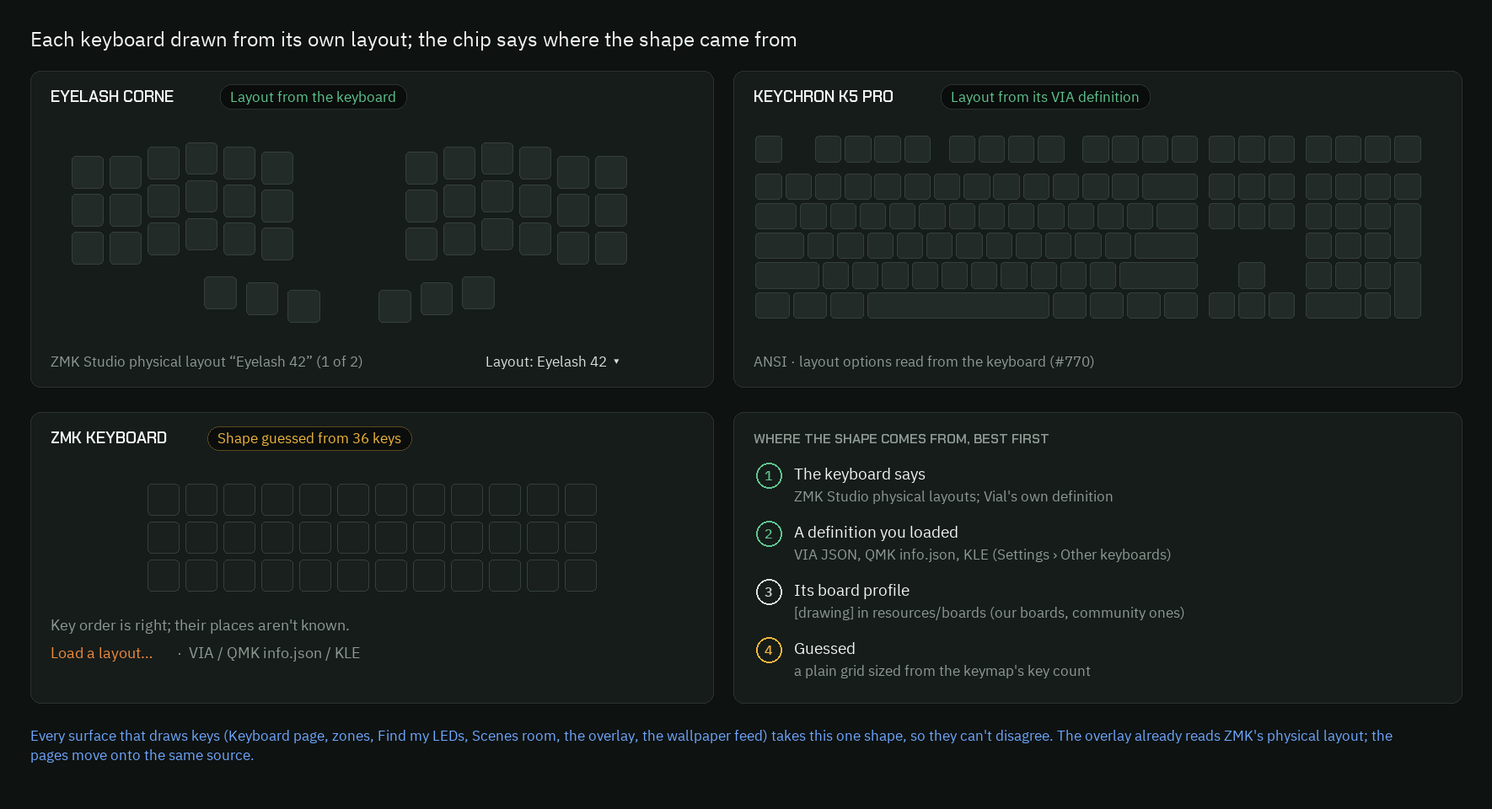
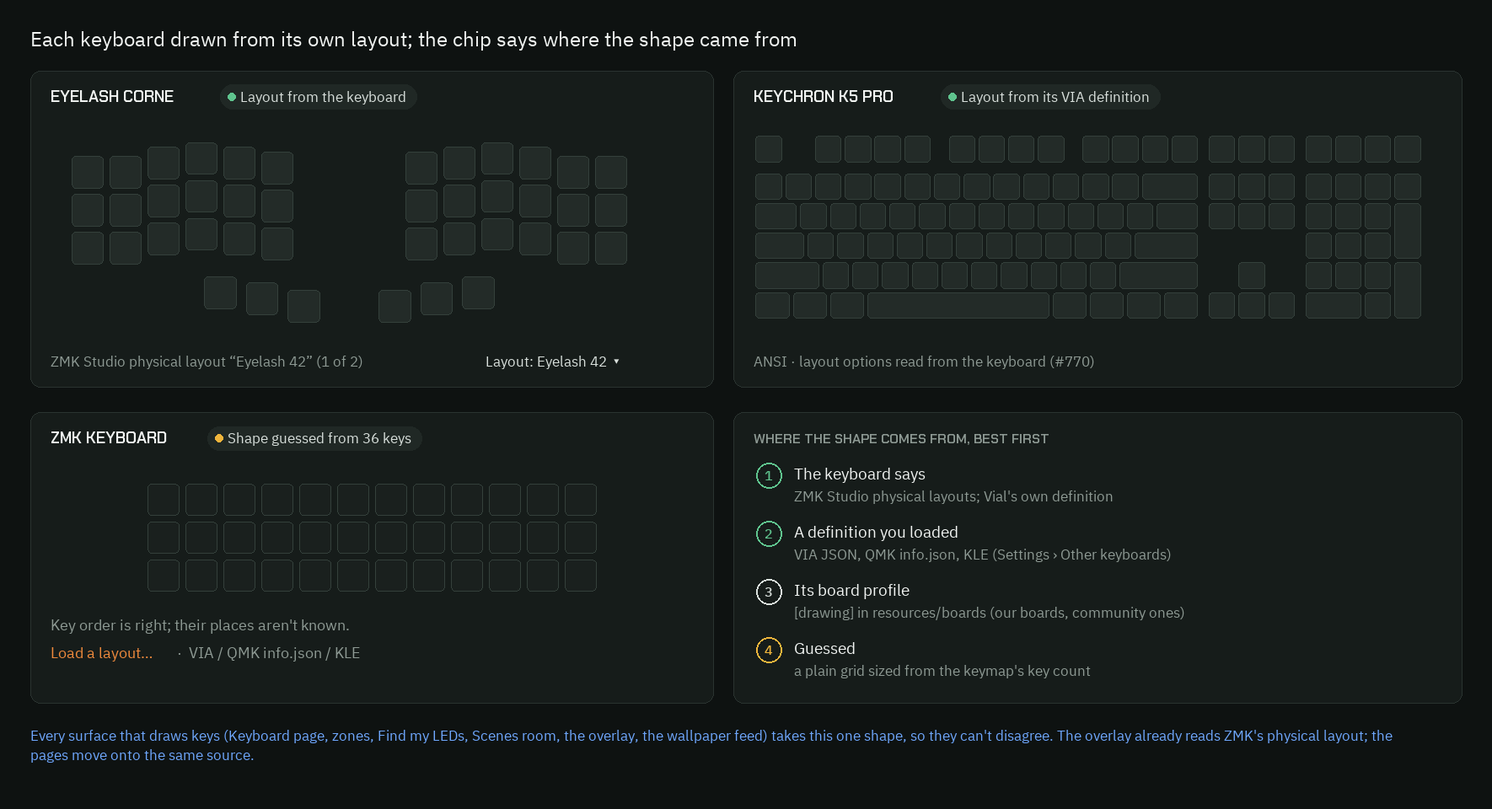
Design ux-1105: flat status chips, EFFECT above its pills, record the Hub's decisions
Status chips lose their outline (muted fill, leading dot); outlines are only for clickable
things, written as an app-wide rule. EFFECT sits above the effect pills like COLOUR. ⓘ only on
controls and amber bars, no first-run highlight. Decisions recorded; mockups re-rendered.

Changed region(s): [[0.6215, 0.0938, 0.7768, 0.1562], [0.1243, 0.0938, 0.2797, 0.1562], [0.1243, 0.5, 0.2797, 0.5625]]

diff --git a/docs/design/mockups/ux_1105_mockups.py b/docs/design/mockups/ux_1105_mockups.py
@@ -167,10 +167,19 @@ def button(c, x, y, label, primary=False, size=12.5):
     return w
 
 
-def chip(c, x, y, label, color=TEXT, fill=WELL, outline=LINE, size=11.5):
-    w = c.tw(label, size) + 16
-    c.rect(x, y, w, 19, fill=fill, outline=outline, r=9)
-    c.text(x + 8, y + 2, label, size, color)
+CHIP_FILL = (0x20, 0x28, 0x25)  # muted, flat: a status chip is never outlined
+WARN_FILL = (0x2A, 0x22, 0x10)
+
+
+def chip(c, x, y, label, color=TEXT, fill=None, dot=None, size=11.5):
+    """A read-only status chip: flat muted fill, no outline, optional leading dot."""
+    fill = fill or (WARN_FILL if color == WARN else CHIP_FILL)
+    pad = 16 if dot else 8
+    w = c.tw(label, size) + pad + 8
+    c.rect(x, y, w, 19, fill=fill, r=9.5)
+    if dot:
+        c.circle(x + 9.5, y + 9.5, 3, fill=dot)
+    c.text(x + pad, y + 2, label, size, color)
     return w
 
 
@@ -268,11 +277,11 @@ def shell(c, W, H, page, menu_open=False):
     c.text(sx + 60, 88, "2 keyboards \u00b7 switch", 11, MUTED)
     c.text(sx + 204, 77, "\u25be", 13, TEXT)
     hx = sx + 234
-    c.rect(hx, 72, 262, 30, fill=SURFACE, outline=LINE, r=6)
+    c.rect(hx, 72, 262, 30, fill=CHIP_FILL, r=6)
     c.circle(hx + 12, 87, 4, fill=OK)
     c.text(hx + 22, 78, "Left  on USB \u00b7 0.3.0 \u00b7 battery 95%", 12.5, TEXT)
     hx += 270
-    c.rect(hx, 72, 200, 30, fill=SURFACE, outline=LINE, r=6)
+    c.rect(hx, 72, 200, 30, fill=CHIP_FILL, r=6)
     c.circle(hx + 12, 87, 4, fill=OK)
     c.text(hx + 22, 78, "Right  linked \u00b7 battery 61%", 12.5, TEXT)
     c.rect(W - 32 - 140, 70, 140, 26, fill=CONTROL, outline=CONTROL_LINE, r=5)
@@ -442,7 +451,7 @@ def focus(out):
     x0, y0, cw = shell(c, W, H, "Keyboard", menu_open=True)
     # the Keyboard page under it, named for the focus
     card(c, x0, y0, cw, 250, "Eyelash Corne")
-    chip(c, x0 + 140, y0 + 12, "Layout from the keyboard", OK)
+    chip(c, x0 + 140, y0 + 12, "Layout from the keyboard", TEXT, dot=OK)
     unit = 28
     draw_keys(c, x0 + 30, y0 + 52, unit, corne_half())
     draw_keys(c, x0 + 30 + 7.8 * unit, y0 + 52, unit, corne_half(right=True))
@@ -525,7 +534,7 @@ def layouts(out):
     y = 56
     c.rect(x0, y, 540, 250, fill=SURFACE, outline=LINE, r=8)
     c.text(x0 + 16, y + 12, "EYELASH CORNE", 13, STRONG, "hud")
-    chip(c, x0 + 150, y + 11, "Layout from the keyboard", OK)
+    chip(c, x0 + 150, y + 11, "Layout from the keyboard", TEXT, dot=OK)
     unit = 30
     draw_keys(c, x0 + 30, y + 54, unit, corne_half())
     draw_keys(c, x0 + 30 + 7.8 * unit, y + 54, unit, corne_half(right=True))
@@ -535,7 +544,7 @@ def layouts(out):
     # K5 Pro from its VIA definition
     c.rect(x0 + 556, y, 576, 250, fill=SURFACE, outline=LINE, r=8)
     c.text(x0 + 572, y + 12, "KEYCHRON K5 PRO", 13, STRONG, "hud")
-    chip(c, x0 + 720, y + 11, "Layout from its VIA definition", OK)
+    chip(c, x0 + 720, y + 11, "Layout from its VIA definition", TEXT, dot=OK)
     unit = 23.5
     draw_keys(c, x0 + 572, y + 50, unit, full_size(), gap=0.07)
     c.text(x0 + 572, y + 222, "ANSI · layout options read from the keyboard (#770)", 11.5, MUTED)
@@ -544,7 +553,7 @@ def layouts(out):
     y2 = y + 270
     c.rect(x0, y2, 540, 230, fill=SURFACE, outline=LINE, r=8)
     c.text(x0 + 16, y2 + 12, "ZMK KEYBOARD", 13, STRONG, "hud")
-    chip(c, x0 + 140, y2 + 11, "Shape guessed from 36 keys", WARN, outline=(0x5A, 0x48, 0x20))
+    chip(c, x0 + 140, y2 + 11, "Shape guessed from 36 keys", TEXT, dot=WARN)
     unit = 30
     keys = [((i % 12) * 1.0, (i // 12) * 1.0, 1, 1) for i in range(36)]
     draw_keys(c, x0 + 90, y2 + 54, unit, keys, tint=(0x1A, 0x20, 0x1E))
@@ -670,43 +679,43 @@ def thumbs(out):
 # --- 4: Lights page declutter -----------------------------------------------------------------
 
 def lights(out):
-    W, H = 1240, 1020
+    W, H = 1240, 1040
     c = Canvas(W, H)
     x0, y0, cw = shell(c, W, H, "Lights")
     # Keyboard card
     y = y0
-    card(c, x0, y, cw, 360, "Eyelash Corne")
+    card(c, x0, y, cw, 378, "Eyelash Corne")
     # status highlights row
     yy = y + 44
     xx = x0 + 16
-    xx += chip(c, xx, yy, "Lights now: Foxglove", TEXT) + 6
-    xx += info(c, xx, yy + 1) + 8
+    xx += chip(c, xx, yy, "Lights now: Foxglove", TEXT, dot=OK) + 6
+    xx += 4
     xx += chip(c, xx, yy, "6 zones per half", TEXT) + 6
     c.text(xx + 2, yy + 2, "Show zones", 12, ACCENT)
     xx += c.tw("Show zones", 12) + 16
-    xx += chip(c, xx, yy, "calibrated", OK) + 6
-    xx += chip(c, xx, yy, "◑ dims on battery", TEXT) + 6
+    xx += chip(c, xx, yy, "calibrated", TEXT, dot=OK) + 6
+    xx += chip(c, xx, yy, "Right on battery · dims to 80%", TEXT, dot=MUTED) + 6
     # left column: controls
     lx, ly = x0 + 16, yy + 36
     pw = pill(c, lx, ly, "Off")
     pill(c, lx + pw + 6, ly, "On", True)
-    caps(c, lx + 520, ly + 6, "Effect")
+    caps(c, lx, ly + 34, "Effect")
     ex = lx
     for i, e in enumerate(["Solid", "Breathe", "Spectrum", "Swirl"]):
-        ex += pill(c, ex, ly + 32, e, i == 0) + 6
-    caps(c, lx, ly + 70, "Colour")
+        ex += pill(c, ex, ly + 50, e, i == 0) + 6
+    caps(c, lx, ly + 88, "Colour")
     sx = lx
     for i, rgb in enumerate(SWATCHES):
-        sx += swatch(c, sx, ly + 88, rgb, i == 0)
-    pill(c, sx, ly + 90, "Custom")
-    c.text(lx, ly + 126, "Brightness", 12.5)
-    c.text(lx + 530, ly + 126, "80%", 12.5, TEXT, "mono", anchor="ra")
-    slider(c, lx, ly + 142, 530, 0.8)
-    c.text(lx, ly + 170, "Speed", 12.5)
-    c.text(lx + 530, ly + 170, "3", 12.5, TEXT, "mono", anchor="ra")
-    slider(c, lx, ly + 186, 530, 0.5)
-    bw = button(c, lx, ly + 220, "Apply colour", primary=True)
-    c.rect(lx + bw + 8, ly + 225, 28, 14, fill=ACCENT, r=3)
+        sx += swatch(c, sx, ly + 106, rgb, i == 0)
+    pill(c, sx, ly + 108, "Custom")
+    c.text(lx, ly + 144, "Brightness", 12.5)
+    c.text(lx + 530, ly + 144, "80%", 12.5, TEXT, "mono", anchor="ra")
+    slider(c, lx, ly + 160, 530, 0.8)
+    c.text(lx, ly + 188, "Speed", 12.5)
+    c.text(lx + 530, ly + 188, "3", 12.5, TEXT, "mono", anchor="ra")
+    slider(c, lx, ly + 204, 530, 0.5)
+    bw = button(c, lx, ly + 238, "Apply colour", primary=True)
+    c.rect(lx + bw + 8, ly + 243, 28, 14, fill=ACCENT, r=3)
     # right column: halves + switches
     rx = x0 + 600
     caps(c, rx, ly, "Both halves now")
@@ -732,11 +741,10 @@ def lights(out):
             " A running scene keeps the lights until it ends.", 11.5)
 
     # Other devices, decluttered
-    y = y0 + 380
+    y = y0 + 398
     card(c, x0, y, cw, 420, "Other devices")
-    info(c, x0 + 16 + c.tw("Other devices", 14.5, "hud") + 8, y + 13)
     yy = y + 44
-    c.rect(x0 + 16, yy, cw - 32, 28, fill=(0x2A, 0x22, 0x10), outline=(0x5A, 0x48, 0x20), r=5)
+    c.rect(x0 + 16, yy, cw - 32, 28, fill=WARN_FILL, r=5)
     c.text(x0 + 28, yy + 6, "⚠  OMEN Light Studio may override the case", 12.5, WARN)
     info(c, x0 + 28 + c.tw("⚠  OMEN Light Studio may override the case", 12.5) + 8, yy + 6, WARN)
     yy += 40
@@ -745,8 +753,7 @@ def lights(out):
     thumb_frame(c, x0 + 16, yy + 10, lambda a, b, w, h: mini_case(c, a, b, w, h, [ACCENT, ACCENT, (0xFF, 0x5F, 0x3C)], strip=ACCENT))
     c.text(x0 + 84, yy + 10, "OMEN 45L case", 13, STRONG)
     c.text(x0 + 90 + c.tw("OMEN 45L case", 13), yy + 10, "Built-in support · calibrated", 12, MUTED)
-    c.text(x0 + 84, yy + 30, "5 zones", 12, TEXT)
-    info(c, x0 + 84 + c.tw("5 zones", 12) + 6, yy + 30)
+    chip(c, x0 + 84, yy + 29, "5 zones", TEXT)
     bx = x0 + cw - 16
     for lbl in ["⋯", "Identify", "Off", "Calibrate…"]:
         bx -= c.tw(lbl, 12.5) + 20 + 6
@@ -778,8 +785,7 @@ def lights(out):
         c.text(x0 + 76, yy + 10, name, 13, STRONG)
         c.text(x0 + 82 + c.tw(name, 13), yy + 10, ctl, 12, MUTED)
         if name.startswith("G502"):
-            chip(c, x0 + 76, yy + 28, "in front only", WARN, outline=(0x5A, 0x48, 0x20))
-            info(c, x0 + 76 + c.tw("in front only", 11.5) + 22, yy + 28, WARN)
+            chip(c, x0 + 76, yy + 28, "in front only", TEXT, dot=MUTED)
         c.text(x0 + cw - 30, yy + 12, "▸", 13, MUTED)
         yy += 48
     c.line(x0 + 1, yy, x0 + cw - 1, yy, LINE)
@@ -817,7 +823,7 @@ def lights_states(out):
     y += 24
     for now, short, btn in rows:
         hh = c.wrap(x0, y, now, 540, 12, WARN) - y
-        c.rect(x0 + 580, y - 4, 552, 28, fill=(0x2A, 0x22, 0x10), outline=(0x5A, 0x48, 0x20), r=5)
+        c.rect(x0 + 580, y - 4, 552, 28, fill=WARN_FILL, r=5)
         c.text(x0 + 592, y + 2, "⚠  " + short, 12.5, WARN)
         ix = x0 + 592 + c.tw("⚠  " + short, 12.5) + 8
         info(c, ix, y + 2, WARN)

diff --git a/docs/design/device-focus-layouts-thumbnails-lights-declutter.md b/docs/design/device-focus-layouts-thumbnails-lights-declutter.md
@@ -1,7 +1,23 @@
 # Device focus, real key layouts, device thumbnails, and a quieter Lights page
 
-Design only (ux-1105, 2026-11-05). Taste-sensitive, waiting on the Hub. Nothing here is built.
-The issues at the end are drafts. They get filed once the Hub approves.
+Design only (ux-1105, 2026-11-05). **Approved by the user on 2026-11-05** ("i like that a lot"),
+with two fixes now folded in: status chips are flat, and the EFFECT label sits above its pills.
+Nothing here is built yet. The issues are filed; the plan below links them.
+
+## Decisions (2026-11-05, all option a)
+
+1. **Focus:** one global switcher in the status strip. The overlay and the wallpaper feed can
+   pin their own keyboard.
+2. **Other devices rows:** collapsed by default.
+3. **Hidden detail:** an ⓘ on controls (and on amber info bars); chips, labels and card titles
+   carry their text on hover, with no ⓘ.
+4. **"Follow the keyboard I type on":** later (C4), off by default.
+5. A read-only VIA or LampArray-only keyboard that has the focus shows its lights in the
+   keyboard card, with muted read-only chips, and isn't listed again under Other devices.
+6. **No first-run highlight on the ⓘ icons.** The user declined it.
+7. **Flat status chips** (user fix): see section 4, rule 2. This holds app-wide, not only on Lights.
+8. **EFFECT label above the effect pills** (user fix), like COLOUR above the swatches: every
+   control group's caps label sits on its own line above the group, never beside another row.
 
 The user's request: "device 'focus' selection should be a thing for any integrated
 representations of the keyboard. as well as key layout detection. and when it comes to the
@@ -189,13 +205,13 @@ can no longer disagree.
 **The source, best first:**
 1. **The keyboard says**: ZMK Studio's physical layouts (the active one, and the others as
    choices), or Vial's own definition with its layout options. Chip: "Layout from the keyboard"
-   (ok colour).
+   (green dot).
 2. **A definition you loaded**: VIA JSON (already loadable in Settings › Other keyboards), and
-   later QMK `info.json` or a raw KLE file. Chip: "Layout from its VIA definition" (ok colour).
+   later QMK `info.json` or a raw KLE file. Chip: "Layout from its VIA definition" (green dot).
 3. **Its board profile**: `[drawing]` in `resources/boards` or the user's boards folder. Chip:
-   "Layout from Foxglove's board profile" (plain).
+   "Layout from Foxglove's board profile" (no dot).
 4. **Guessed**: today's `Drawing::plain(keymap key count)`. Chip: "Shape guessed from N keys"
-   (amber outline, not amber fill: it isn't a fault). Muted line: "Key order is right; their
+   (amber dot; flat like every status chip, and not an amber bar: it isn't a fault). Muted line: "Key order is right; their
    places aren't known." Link: "Load a layout…".
 
 **Rules:**
@@ -254,16 +270,25 @@ No per-product art ships, and a board without a layout gets the plain Keyboard s
    collapsed expander.
 2. **State becomes a chip, explanation becomes a tooltip.** A chip is 1 to 4 words, the state
    only: "6 zones per half", "calibrated", "in front only". The sentence that explains it is the
-   chip's or the ⓘ's hover text, word for word. Nothing is reworded away.
-3. **ⓘ only where the label is a control** (a checkbox, a button). Hovering the label itself
-   already shows the same text, so the ⓘ is a hint that there is more, not a second place for it.
-   Plain-text chips carry their hover text directly.
-4. **Amber is never collapsed.** It becomes one InfoBar line of 60 characters or less that names
+   chip's hover text, word for word. Nothing is reworded away.
+   **Status chips are flat** (app-wide rule): a read-only chip has **no outline**, a muted fill
+   (`CHIP_FILL`, between `surface` and `control`) and, when its state has a colour, a **leading
+   dot** in it (ok green, muted grey, warn amber). The text stays `text`, not coloured.
+   **Outlines are only for clickable things:** pills, buttons, dropdowns, text fields. The same
+   goes for the status strip's part chips and for amber info bars (fill only). A link is accent
+   text, never a chip.
+3. **ⓘ only on controls** (a checkbox, a button) **and on amber info bars.** Hovering the
+   control's label shows the same text, so the ⓘ is a hint that there is more, not a second place
+   for it. Chips, plain labels and card titles carry their hover text directly, with no ⓘ. There
+   is no first-run highlight on the ⓘ.
+4. **Caps labels sit above their group,** never to the side: OFF/ON, then EFFECT over the effect
+   pills, then COLOUR over the swatches.
+5. **Amber is never collapsed.** It becomes one InfoBar line of 60 characters or less that names
    the problem, plus its action button. The full sentence, Settings path included, goes in the
    InfoBar's ⓘ, and the health view keeps the long copy.
-5. **Expanders are collapsed by default, and remembered for the session** (as Show zones is now):
+6. **Expanders are collapsed by default, and remembered for the session** (as Show zones is now):
    each device row, "More sources" (OpenRGB, Add a device), "Adjust levels…".
-6. **The casual viewer sees state and controls:** who drives the lights, the effect, the colour,
+7. **The casual viewer sees state and controls:** who drives the lights, the effect, the colour,
    brightness, and each device's thumbnail and name. Everything else is one hover or one click
    away.
 
@@ -281,7 +306,7 @@ Sources: `lights_page.rs`, `lights_owner.rs`, `light_zones.rs`, `zones_ui.rs`,
 
 | # | Text now | Goes to |
 |---|---|---|
-| K1 | "Lights now: {who}" (+ TIP on hover: "Who drives the keyboard's lights… lets go.") | Chip "Lights now: Foxglove" + ⓘ with TIP |
+| K1 | "Lights now: {who}" (+ TIP on hover: "Who drives the keyboard's lights… lets go.") | Chip "Lights now: Foxglove" (green dot); hover = TIP |
 | K2 | "Windows Dynamic Lighting holds the keyboard's lights. Turn off Settings > Personalization > Dynamic Lighting > {device} > "Use Dynamic Lighting on my devices" to give them back. [The scene "{name}" comes back then.]" | Amber InfoBar "Windows has the keyboard's lights · {scene} waits" + button "Open Dynamic Lighting settings" (unchanged) + ⓘ with the full sentence *(moved)* |
 | K3 | "Windows Dynamic Lighting holds the keyboard's lights; Foxglove draws through it [while its window is in front]. Turn off … to give them back." | Amber InfoBar "Windows has the lights · Foxglove draws through it [in front]" + button + ⓘ full *(moved)* |
 | K4 | Zone summary "6 lighting zones per half, by column" (+ details on hover) | Chip "6 zones per half"; hover = the summary + details *(moved)*; "Show zones" link stays beside it |
@@ -289,7 +314,7 @@ Sources: `lights_page.rs`, `lights_owner.rs`, `light_zones.rs`, `zones_ui.rs`,
 | K6 | "The keyboard reports {n} lamps; which keys each one lights isn't known yet." (hover) | Tooltip of the K5 chip |
 | K7 | Zone drawing: source line ("From your check" / "From the board's profile · not checked on yours yet" / "Reported by the device" …) | Expander (Show zones), as now; the source becomes a chip in the drawing's header |
 | K8 | Zone drawing: "{n} more lamps … light nothing; Foxglove leaves them out." | Expander, visible muted line under the drawing (it is state) |
-| K9 | Zone drawing: ZONE_LOOKS "Per-key looks (scenes, ripples) take one colour per zone here: the colour at the zone's centre." | Expander, ⓘ beside the drawing's title *(moved)* |
+| K9 | Zone drawing: ZONE_LOOKS "Per-key looks (scenes, ripples) take one colour per zone here: the colour at the zone's centre." | Expander, hover on the drawing's title *(moved)* |
 | K10 | "Not right?" + "Check zones…" + "Forget my check" (hint: "Go back to the board's profile, or what the keyboard reports") | Expander, as now |
 | K11 | Effect pill hover "Swirl (rainbow; colour not used yet)" | Tooltip, as now |
 | K12 | "The keyboard shows {X}; Foxglove saved {Y}. Pick {an effect / an effect or a colour} to change it." | Chip "Saved: {Y}" beside the effect pills + hover = the sentence *(moved)* |
@@ -307,7 +332,7 @@ Sources: `lights_page.rs`, `lights_owner.rs`, `light_zones.rs`, `zones_ui.rs`,
 | K24 | "{Right half}'s lights follow the {left}" + hover follow_tip ("On: … Saved on the keyboard.") | Checkbox "Right follows left" + ⓘ; hover starts with the full label, then the tip |
 | K25 | "Asking the keyboard…" / "{label}: needs a keyboard with Foxglove's firmware" / "{label}: needs newer keyboard firmware" + ↻ | Disabled checkbox + muted chip "needs newer firmware" / "needs Foxglove firmware"; the full line is the hover; ↻ stays |
 | K26 | "Save battery: dim lights on battery" + hover "Each half dims its own lights … works without Foxglove." | Checkbox "Dim on battery" + ⓘ; hover starts with the full label |
-| K27 | Status lines "Right half on battery · 80%", "Left half on USB · 100%" | Header chip "◑ Right on battery · 80%" (the part being dimmed); both lines on its hover *(moved)* |
+| K27 | Status lines "Right half on battery · 80%", "Left half on USB · 100%" | Header chip "Right on battery · dims to 80%" (grey dot; the part being dimmed); both lines on its hover *(moved)* |
 | K28 | "Off: your brightness on battery too." | Hover of the unchecked "Dim on battery" *(moved)* |
 | K29 | "{The right half} takes these levels when it next connects." | Visible muted line under the checkbox (pending state) |
 | K30 | "Adjust…" / "Hide levels" (hover "The brightness on power, on battery and on low battery"), rows "On power" / "On battery" / "Low battery" / "Low battery threshold" + hints, "Defaults" (hover "100% on power, 80% on battery, 12% below 20% charge") | "Adjust levels…" expander, collapsed, contents unchanged |
@@ -318,19 +343,19 @@ Sources: `lights_page.rs`, `lights_owner.rs`, `light_zones.rs`, `zones_ui.rs`,
 
 | # | Text now | Goes to |
 |---|---|---|
-| O1 | "Case lights, screens and other lighting devices on this PC, and what each can do." | ⓘ beside the card title *(moved)* |
+| O1 | "Case lights, screens and other lighting devices on this PC, and what each can do." | Hover on the card title *(moved)* |
 | O2 | "{app} is running and may override Foxglove's colours on {device}." (+ hint on hover) | Amber InfoBar "{app} may override the {device}" + ⓘ with the sentence and the hint |
 | O3 | "No PC or peripheral lights found." | Visible (empty state) |
 | O4 | Row header: name, "Built-in support" / "Windows lighting" / "Not controllable yet" / "Through OpenRGB", "· added by you", "· calibrated" | Visible, one muted line, beside the new thumbnail |
-| O5 | Light summary "5 lighting zones" / "Per-LED lighting, 24 lamps" / "On/off light" / "1 zone (whole device)" (+ TIP "How finely Foxglove can set this device's colours. Effects use one colour per zone.") | Short "5 zones" in the collapsed row + ⓘ with TIP; full summary in the expanded row |
+| O5 | Light summary "5 lighting zones" / "Per-LED lighting, 24 lamps" / "On/off light" / "1 zone (whole device)" (+ TIP "How finely Foxglove can set this device's colours. Effects use one colour per zone.") | Chip "5 zones" in the collapsed row, hover = TIP; full summary in the expanded row |
 | O6 | Screen chips ("Screen · images & animations"), "No lights Foxglove knows of" | Chips, as now |
 | O7 | "Show zones" / "Hide zones" | Inside the expanded row, as now |
 | O8 | "Calibrate…" (hover), "Off" (hover "Turn every zone dark"), "Identify" (hover "Blink this device …") | Identify stays on the collapsed row (also on the thumbnail); Calibrate… and Off in the expanded row; hovers unchanged |
-| O9 | "Turned off in Windows' Dynamic Lighting settings." | Amber chip "off in Windows" + hover = the sentence *(moved)* |
-| O10 | "Another app has these lights now. Settings > Personalization > Dynamic Lighting sets which app comes first." | Amber chip "another app has it" + button "Open Dynamic Lighting settings" (new, the same one as K2) + hover = the sentence |
-| O11 | "Windows shows Foxglove's colours here while Foxglove's window is in front." / "…; in the background its own Dynamic Lighting takes over." | Muted chip "in front only" + ⓘ with the sentence *(moved)* |
-| O12 | "Windows lighting: reading its lamps from Windows." | Muted chip "reading lamps…" + hover *(moved)* |
-| O13 | "Windows lists no Dynamic Lighting device for it right now." | Muted chip "not in Windows right now" + hover *(moved)* |
+| O9 | "Turned off in Windows' Dynamic Lighting settings." | Chip "off in Windows" (amber dot) + hover = the sentence *(moved)* |
+| O10 | "Another app has these lights now. Settings > Personalization > Dynamic Lighting sets which app comes first." | Chip "another app has it" (amber dot) + button "Open Dynamic Lighting settings" (new, the same one as K2) + hover = the sentence |
+| O11 | "Windows shows Foxglove's colours here while Foxglove's window is in front." / "…; in the background its own Dynamic Lighting takes over." | Chip "in front only" (grey dot), hover = the sentence *(moved)* |
+| O12 | "Windows lighting: reading its lamps from Windows." | Chip "reading lamps…" (grey dot) + hover *(moved)* |
+| O13 | "Windows lists no Dynamic Lighting device for it right now." | Chip "not in Windows right now" (grey dot) + hover *(moved)* |
 | O14 | "Found, not controllable yet." | Merged into O4's "Not controllable yet" (same words); the sentence is its hover |
 | O15 | Zone pickers: hover "{zone}: pick a colour, then Apply", "not set", "changed", zone names | Expanded row, as now |
 | O16 | Hex box "#rrggbb" (hover "{zone}: type a colour as #rrggbb, then Apply") | Expanded row, inside each zone's swatch popup (one click), so the row loses a line of boxes |
@@ -340,7 +365,7 @@ Sources: `lights_page.rs`, `lights_owner.rs`, `light_zones.rs`, `zones_ui.rs`,
 | O20 | "Match keyboard" + hover "Show the colour the keyboard's lights show … Picking a colour here stops it." | Checkbox + ⓘ; hover unchanged |
 | O21 | "Forget your entry for this device?" + Remove / Keep | Visible (amber, transient), as now |
 | O22 | "More ▸" (hover "Copy entry, Remove"), "Copy entry" (hover "Copy this device's catalog entry (TOML) …"), "Remove…" (hover "Forget your entry for this device") | "⋯" menu on the row, contents unchanged |
-| O23 | "Use OpenRGB's devices" + hover "List the devices a running OpenRGB drives … Turn on OpenRGB's SDK server first." | "More sources" expander (collapsed); its header summary says "OpenRGB off" / "OpenRGB: 4 devices"; an amber chip "OpenRGB not connected" in the header while it is on and down (amber stays visible) |
+| O23 | "Use OpenRGB's devices" + hover "List the devices a running OpenRGB drives … Turn on OpenRGB's SDK server first." | "More sources" expander (collapsed); its header summary says "OpenRGB off" / "OpenRGB: 4 devices"; a chip "OpenRGB not connected" (amber dot) in the header while it is on and down (amber stays visible) |
 | O24 | "Off: Foxglove doesn't connect to OpenRGB." | Hover of the unchecked checkbox *(moved)* |
 | O25 | "Host", "Port" (hover "OpenRGB's address: an IP address, or localhost"), "Connect" (hover "Connect to OpenRGB at this address") | More sources, as now |
 | O26 | "Host: an IP address or localhost; port: 1 to 65535." | More sources: amber "Host or port not valid" + ⓘ with the sentence |
@@ -365,11 +390,14 @@ not per PR.
 1. **A1 · Disclosure widgets.** `theme::hint_chip(text, hover)`, `theme::info_dot(hover)`,
    `theme::info_bar(level, short, full, action)`, and `settings_ui::expander(key, header,
    summary)` with session-remembered open state (generalising `zones_ui::toggle`).
-   - *AC:* a preview sheet of each widget, dark and light. The ⓘ hover equals the given text.
-     `info_bar` never collapses. Keyboard focus reaches the ⓘ, and Enter/Space shows its text (for
+   - *AC:* a preview sheet of each widget, dark and light. `hint_chip` has no outline, a muted
+     fill and an optional leading dot (the flat-chip rule); a source test keeps strokes off it.
+     The ⓘ hover equals the given text. No first-run highlight. `info_bar` is fill only and
+     never collapses. Keyboard focus reaches the ⓘ, and Enter/Space shows its text (for
      keyboard users). No page changes yet.
 2. **A2 · Keyboard card declutter** (K1–K32).
-   - *AC:* each K row behaves as the inventory says. A test asserts every K-row string still
+   - *AC:* each K row behaves as the inventory says. EFFECT sits above the effect pills, like
+     COLOUR. A test asserts every K-row string still
      renders somewhere: visible, or as hover text found through egui's `WidgetInfo`/tooltips in a
      headless frame. Previews `ui-1105-lights-keyboard{,-windows,-through,-unknown-zones,-old-firmware}.png`.
      The card is shorter than today's at 980 pt (measured in the preview). Amber is still visible
@@ -468,9 +496,9 @@ Each one uses the Feature template. Research and Scope are summarised from the s
   iCUE/SignalRGB tinted tiles, LampArrayKind + lamp positions.
 - **Thumbnails on device rows, the battery list and the switcher** (D2).
 
-## Open questions for the Hub
+## Open questions for the Hub (answered 2026-11-05: all a)
 
-At most 4 decisions. The recommended option is listed first.
+Kept for the record; the answers are in Decisions at the top.
 
 1. **Where does the focus picker live?** (`C:\Users\fuchs\splitkeeb\worktrees\_logs\review\ux-1105\ux-1105-proposed-1-focus.png`)
    a) One global focus in the status strip's switcher; the overlay and feed can pin. *(recommended)*
